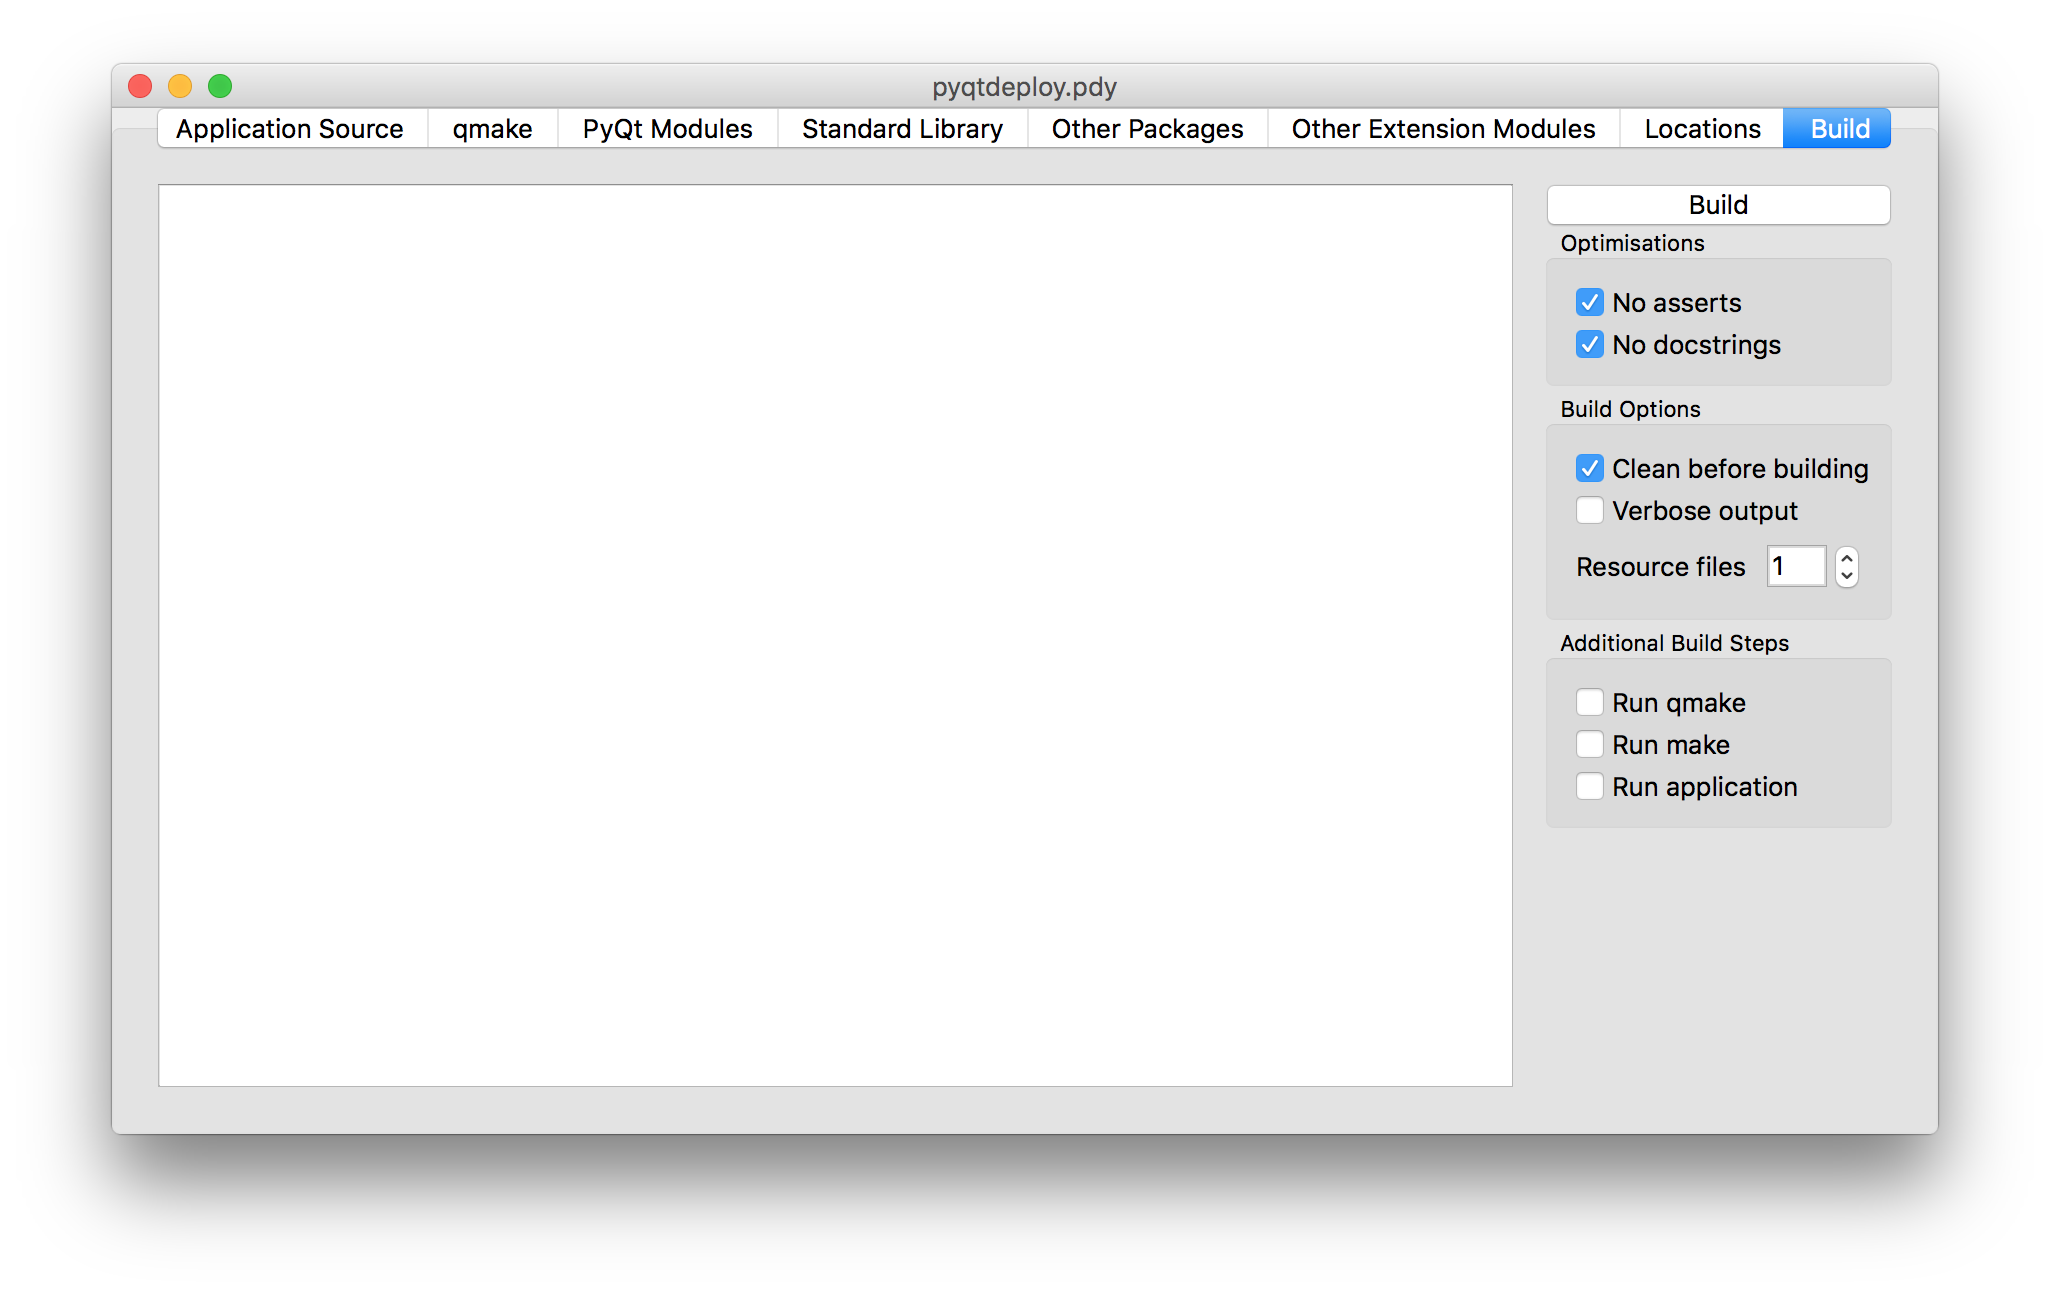
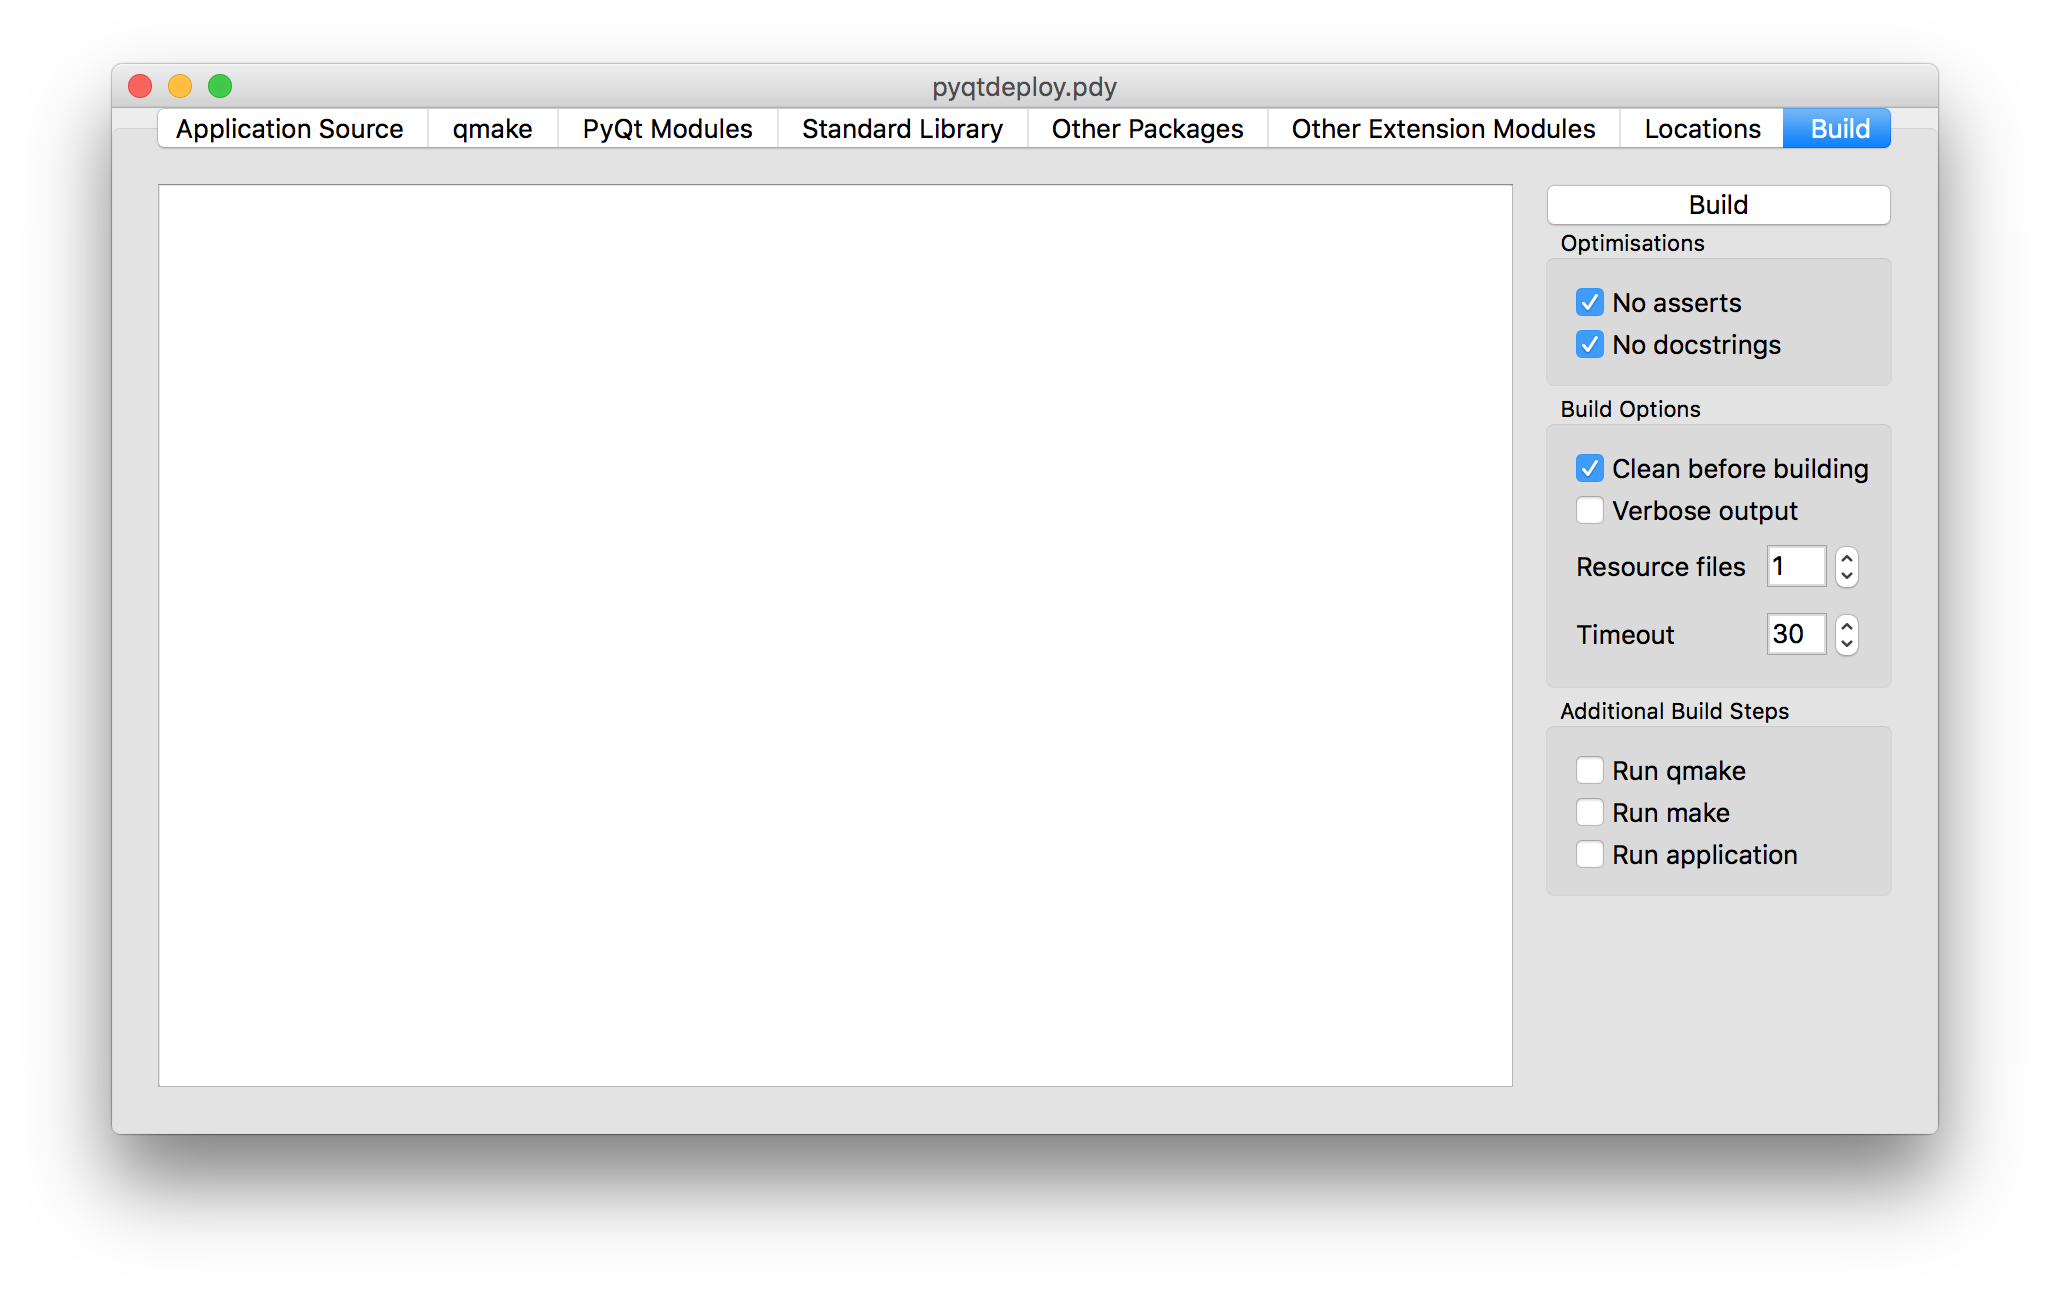
Updated the documentation.

Changed region(s): [[0.7493, 0.4637, 0.9054, 0.6801]]

diff --git a/doc/build_sysroot.rst b/doc/build_sysroot.rst
@@ -36,9 +36,7 @@ copy the Qt source package to the ``src`` directory.
 ---------------------------
 
 :program:`build-sysroot.py` will build and install Qt, Python, sip and PyQt5 as
-specified using command line options.
-
-The supported actions are:
+specified using command line options:
 
 .. cmdoption:: --h, --help
 
@@ -54,7 +52,7 @@ The supported actions are:
     This will build one or more of the individual packages in the order
     specified on the command line.  You need to allow for the interdependencies
     between the builds.  For example, if you have updated the source package
-    sip then you should rebuild sip and PyQt5.
+    for sip then you should rebuild sip and PyQt5.
 
 .. cmdoption:: --clean
 

diff --git a/doc/static_builds.rst b/doc/static_builds.rst
@@ -75,8 +75,8 @@ If you wish to statically link the Windows C Library then you need to modify
 the :program:`qmake` configuration for your compiler before running
 ``configure``.
 
-Assuming your compiler is MSVC 2010 then you need to edit the file
-``mkspecs\win32-msvc2010\qmake.conf`` in the Qt source directory as follows:
+Assuming your compiler is MSVC 2015 then you need to edit the file
+``mkspecs\win32-msvc2015\qmake.conf`` in the Qt source directory as follows:
 
 - remove ``embed_manifest_dll`` and ``embed_manifest_exe`` from the ``CONFIG``
   entry

diff --git a/doc/tutorial.rst b/doc/tutorial.rst
@@ -575,6 +575,10 @@ The main area of the tab shows the output of the various stages of the build.
     lack of heap space.  If you run into this problem then try increasing the
     the number of resource files generated.
 
+**Timeout**
+    specifies the number of seconds that the build processes are allowed to run
+    for before being timed out.
+
 **Run qmake**
     is clicked to specify that :program:`qmake` will be run after generating
     the application code.  If this is disabled the later build steps will be
